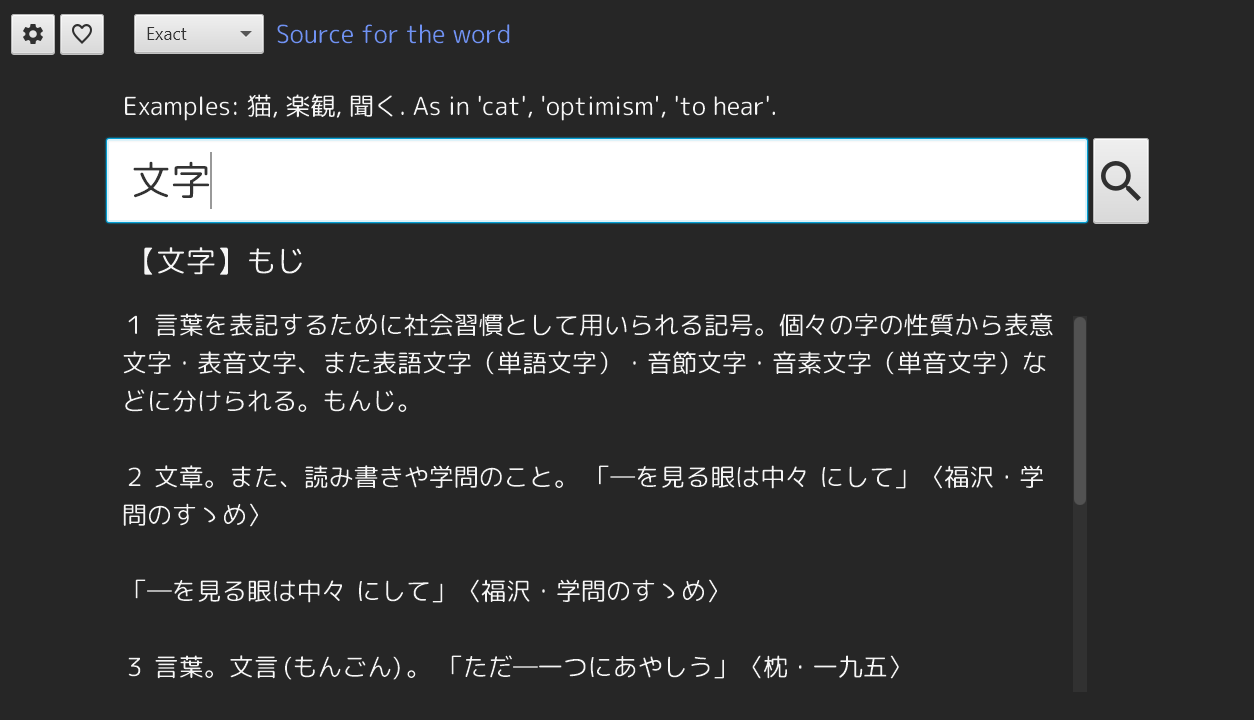
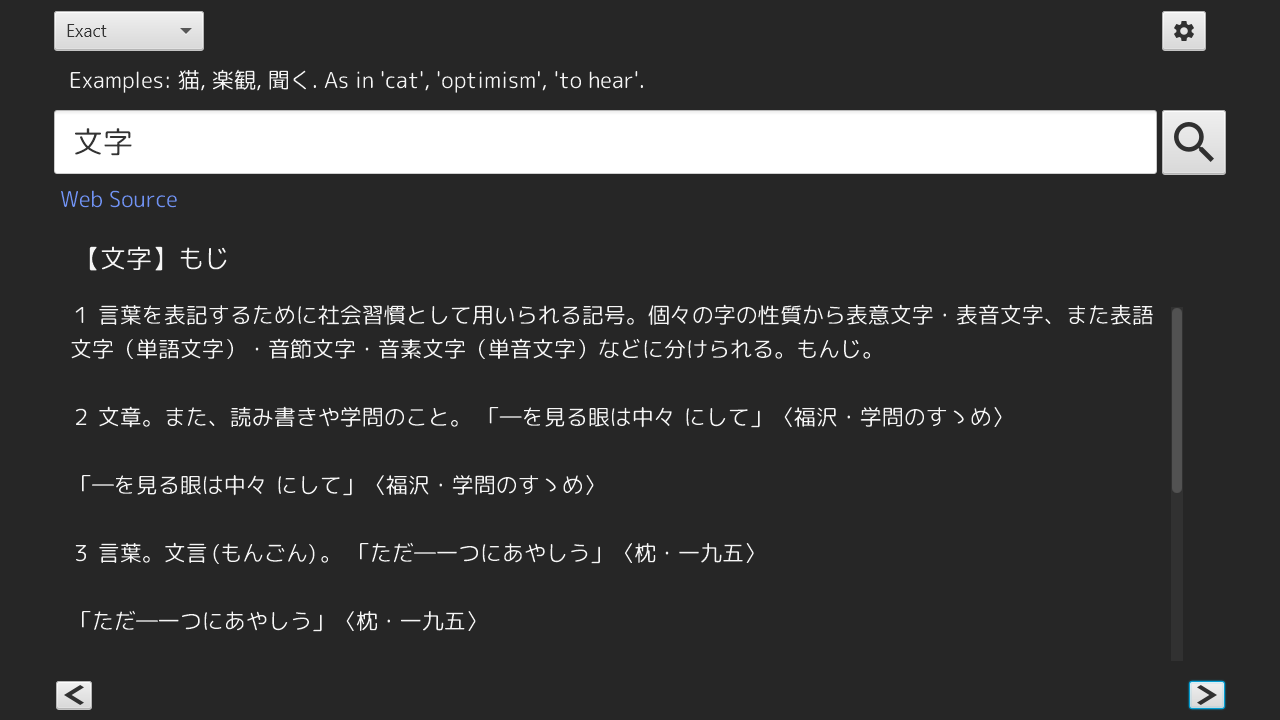
Added testing document and updated other documentation

diff --git a/src/test/java/fi/luukuton/jirin/domain/DictParseTest.java b/src/test/java/fi/luukuton/jirin/domain/DictParseTest.java
@@ -11,9 +11,6 @@ public class DictParseTest {
 
     @BeforeClass
     public static void setUp() throws Exception {
-        // Basic URL for the dictionary.
-        String mode = "/m0u/";
-
         // Dictionary entry for the word "猫" as in "cat".
         parserBasic = new DictParse( "/word/%E7%8C%AB");
 
@@ -24,27 +21,46 @@ public class DictParseTest {
     }
 
     @Test
-    public void equalWhenWordParsedCorrectly() {
+    public void equalWhenNormalWordParsedCorrectly() {
         assertEquals("猫", parserBasic.parseWord());
+    }
+
+    @Test
+    public void equalWhenNoKanjiWordParsedCorrectly() {
         assertEquals("ふらふら", parserNoKanji.parseWord());
     }
 
     @Test
-    public void equalWhenWordReadingParsedCorrectly() {
+    public void equalWhenNormalWordReadingParsedCorrectly() {
         assertEquals("ねこ", parserBasic.parseReading());
+    }
+
+    @Test
+    public void equalWhenNoKanjiWordReadingParsedCorrectly() {
         assertEquals("ふらふら", parserNoKanji.parseReading());
     }
 
     @Test
-    public void equalWhenWordDefinitionsParsedCorrectly() {
-        String secondDefinition = "２ 《胴を猫の皮で張るところから》三味線のこと。";
-        String lastDefinition = "５ 「猫車」の略。";
-        assertEquals(secondDefinition, parserBasic.parseDefinition().get(1));
-        assertEquals(lastDefinition, parserBasic.parseDefinition().get(5));
+    public void equalWhenNormalWordDefinitionsParsedCorrectly() {
+        assertEquals(
+                "２ 《胴を猫の皮で張るところから》三味線のこと。",
+                parserBasic.parseDefinition().get(1)
+        );
+        assertEquals(
+                "５ 「猫車」の略。",
+                parserBasic.parseDefinition().get(5)
+        );
+    }
 
-        secondDefinition = "２ からだに力がはいらないさま。意識がはっきりしないさま。「熱でふらふらする」「ふらふらした足どり」";
-        lastDefinition = "４ 態度が定まらないさま。「方針がふらふらする」";
-        assertEquals(secondDefinition, parserNoKanji.parseDefinition().get(1));
-        assertEquals(lastDefinition, parserNoKanji.parseDefinition().get(3));
+    @Test
+    public void equalWhenNoKanjiWordDefinitionsParsedCorrectly() {
+        assertEquals(
+                "２ からだに力がはいらないさま。意識がはっきりしないさま。「熱でふらふらする」「ふらふらした足どり」",
+                parserNoKanji.parseDefinition().get(1)
+        );
+        assertEquals(
+                "４ 態度が定まらないさま。「方針がふらふらする」",
+                parserNoKanji.parseDefinition().get(3)
+        );
     }
 }

diff --git a/src/main/java/fi/luukuton/jirin/Main.java b/src/main/java/fi/luukuton/jirin/Main.java
@@ -11,12 +11,14 @@ public class Main {
         // Because Japanese Input (Mozc IME) doesn't work on Linux with GTK3, GTK2 is necessary.
         System.setProperty("jdk.gtk.version", "2");
 
+        // Creates a new config file, if there isn't one.
         File file = new File("settings.properties");
         if (file.createNewFile()) {
             Settings settings = new Settings("settings.properties");
             settings.saveSettings("M Plus 1p", "M Plus 1p", "dark");
         }
 
+        // Launches the application.
         JirinUI.main(args);
     }
 }

diff --git a/documentation/user_guide.md b/documentation/user_guide.md
@@ -1,23 +1,30 @@
 # User guide
-Download the newest release in [releases](https://github.com/Luukuton/ot-harjoitustyo-hy2020/releases).
+Download the latest release in [releases](https://github.com/Luukuton/ot-harjoitustyo-hy2020/releases).
 
 ## Launching the application
-The application can be launched by clicking the .jar file depending on the OS or entering the following command: 
+This guide assumes that the application has permissions to write (create, modify) and read a file called settings.properties in the same folder where the JAR is located. 
+
+The application can be launched by clicking the JAR file depending on the OS or entering the following command: 
 ```
 java -jar jirin.jar
 ```
 
 ## Configuration
-If the config file (settings.properties) is not present in the same folder as the jar, it will be generated on launch.
+If the settings file (settings.properties) is not present in the same folder as the JAR, it will be generated on launch.
 
-The config can be changed through settings (gear icon) inside the app.
+Settings can be changed through the settins button (gear icon) inside the app.
 
+Settings view: 
+![settings](pictures/settings.png)
+
+By changing either of the fonts and pressing the checkmark (save), the application will restart itself. By only chaning the theme, the application will not restart.
+
+The cross cancels any changes made. By closing the settings window exhibits the same behaviour.
 ## Searching
 Application launches to this view: 
+![main window](pictures/app_after_launch.png)
 
-![main window](pictures/after_launch.png)
-
-Search queries can be made by typing into the search bar and pressing enter or clicking the magnifier. Search mode can be changed by selecting one from the list.
+Search queries can be made by typing into the search bar and pressing enter or clicking the magnifier. Search mode can be changed by selecting a suitable one from the list.
 
 There are three different search modes: 
 * Exact
@@ -32,8 +39,9 @@ There are three different search modes:
   * For example when searching '気', it'll match '空気', '元気', '天気' etc.
   * In regex it'd be `/.*気/`.
 
+Search results view: 
 ![search results](pictures/search_results.png)
 
-Settings view: 
+If the word or phrase searched has multiple entries (usually the case with Forward and Backward modes), they can be viewed by clicking the two arrows.
 
-![settings](pictures/settings.png)
+By clicking the **Web Source** link, the source of the currently shown word will be opened in the operating system's default web browser.

diff --git a/documentation/testing.md b/documentation/testing.md
@@ -1,0 +1,38 @@
+# Testing document
+
+## JUnit4 Testing
+### Application logic
+Application logic ([fi.luukuton.jirin.domain](../src/main/java/fi/luukuton/jirin/domain)), or in other words: the core of the application, is tested with three test classes:
+##### DictParseTest
+[DictParseTest](../src/test/java/fi/luukuton/jirin/domain/DictParseTest.java) tests that word, its reading and definitions are all parsed correctly into Strings in two cases: when the word has the same reading as it's written (no kanji form) and when they are different (kanji form).
+
+##### JirinServiceTest
+[JirinServiceTest](../src/test/java/fi/luukuton/jirin/domain/JirinServiceTest.java) tests for two different error situations with user input: 'zero length input' and 'search term not found'. It also tests for two different cases of found results, _single_ result and _multiple_ results, as the behaviour of the application changes based on that.
+
+##### DictEntryTest
+[DictEntryTest](../src/test/java/fi/luukuton/jirin/domain/DictEntryTest.java) is testing that characters are being correctly encoded into hex. 
+
+### DAO
+The only DAO class ([fi.luukuton.jirin.dao.Settings](../src/main/java/fi/luukuton/jirin/dao/Settings.java)) is tested with one test class: 
+
+##### SettingsTest
+[SettingsTest](../src/test/java/fi/luukuton/jirin/dao/SettingsTest.java) tests that reading and writing of the settings.properties files is successful.
+
+### UI
+The UI ([fi.luukuton.jirin.ui](../src/main/java/fi/luukuton/jirin/ui)) isn't tested. 
+
+## Test coverage
+Main class (creates the settings.properties file if doesn't exist and launches the app) and user interface ([fi.luukuton.jirin.ui](../src/main/java/fi/luukuton/jirin/ui) are excluded from this report.
+
+![jacoco report](pictures/jacoco_report.png)
+
+Test coverage is 94% and branch coverage is 100%.
+
+A couple exceptions, when there's no internet connection or if the host not available or blocked for some reason, aren't being tested. Also, getters and setters which simply access or save data, aren't being tested. 
+
+## System testing
+System testing has been done manually.
+
+The application has been tested as described in the [user guide](user_guide.md) in Windows 10, Arch Linux, and Cubbli Linux environments. 
+
+All functionality specified in the [software requirements specification](software_requirements_specification.md) has also been tested thoroughly, not forgetting any error situations.

diff --git a/documentation/software_requirements_specification.md b/documentation/software_requirements_specification.md
@@ -1,16 +1,16 @@
 # Software requirements specification
 ## Purpose of the application
-With this application, users can search J§apanese definitions for Japanese words or proverbs through an online monolingual dictionary called [goo辞典](https://dictionary.goo.ne.jp) (goo dictionary). Users can also save words or proverbs as favorites.
+With this application, users can search Japanese definitions of Japanese words or phrases through an online monolingual dictionary called [goo辞典](https://dictionary.goo.ne.jp) (goo dictionary).
 
 ## Interface
-The application features a single (responsive) main view, where users can search for words. Additionally, there's a settings view, where users can change some basic settings such as theme and fonts.
+The application features a single (responsive) main view, where users can search for words and phrases. Additionally, there's a settings view, where users can change the application theme and fonts.
 
 Interface currently: 
-![current_ui](pictures/current_ui.gif)
+![current_ui](pictures/ui_preview.gif)
 
 ## Functionality
-- [x] Clean UI
-- [x] Search words or proverbs through a search bar (returns word, reading, definitions)
+- [x] Responsive UI
+- [x] Search words or phrases through a search bar (returns word, reading, definitions)
 - [x] Different search modes ("exact", "forward", "backward")
 - [x] Searching can return multiple responses
 - [x] Customize the application through some basic settings (font, theme)

diff --git a/README.md b/README.md
@@ -5,13 +5,15 @@ Current state of the UI:
 ![current_ui](documentation/pictures/ui_preview.gif)
 
 ## Releases
-* [Week 6 (latest)](https://github.com/Luukuton/ot-harjoitustyo-hy2020/releases/tag/week6)
+* [Week 7](https://github.com/Luukuton/ot-harjoitustyo-hy2020/releases/tag/week7) (latest)
+* [Week 6](https://github.com/Luukuton/ot-harjoitustyo-hy2020/releases/tag/week6)
 * [Week 5](https://github.com/Luukuton/ot-harjoitustyo-hy2020/releases/tag/week5)
 
 ## Documentation
 * [User guide](documentation/user_guide.md)
 * [Software requirements specifications](documentation/software_requirements_specification.md)
 * [Architecture](documentation/architecture.md)
+* [Testing](documentation/testing.md)
 * [Time accounting](documentation/time_accounting.md)
 
 ## Running
